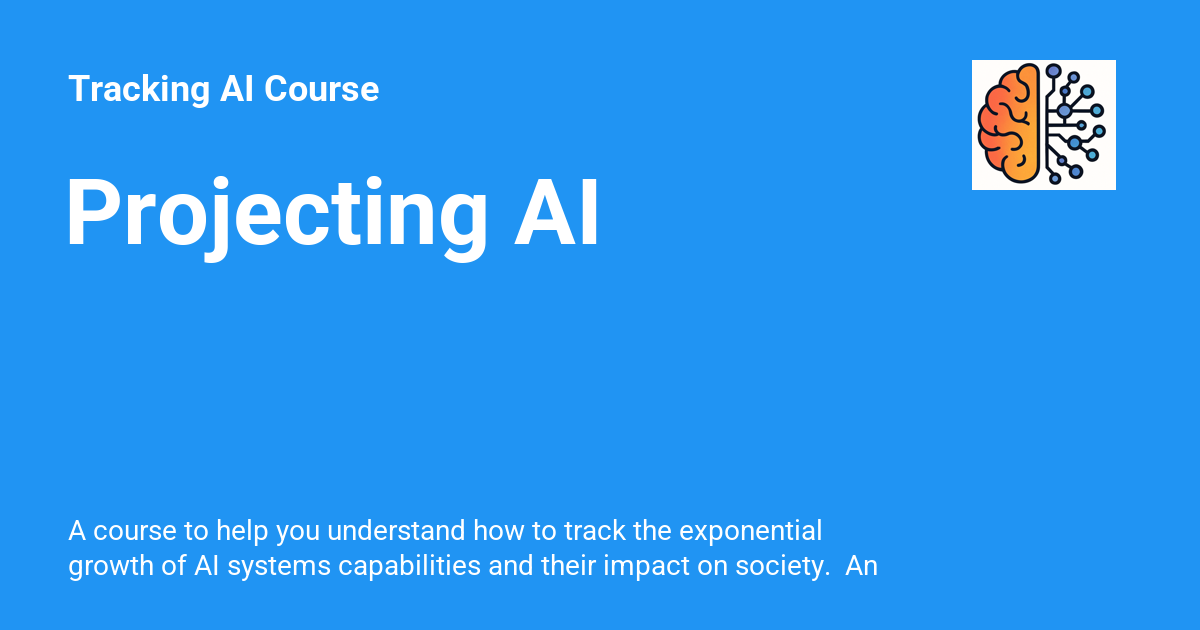
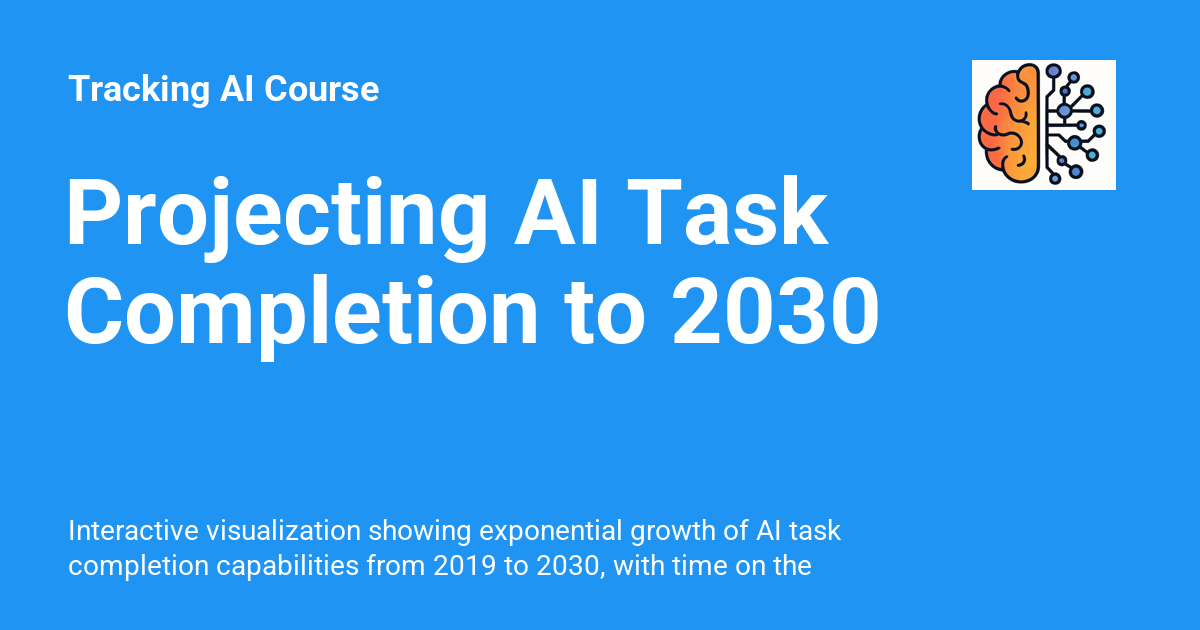
Deployed e076f68 with MkDocs version: 1.6.1

Changed region(s): [[0.0617, 0.8143, 0.74, 0.9349], [0.0308, 0.4222, 0.74, 0.573], [0.5242, 0.2714, 0.7092, 0.3921]]

diff --git a/sims/projecting-ai/index.html b/sims/projecting-ai/index.html
@@ -6,7 +6,7 @@
       <meta charset="utf-8">
       <meta name="viewport" content="width=device-width,initial-scale=1">
       
-        <meta name="description" content="A course to help you understand how to track the exponential growth of AI systems capabilities and their impact on society.  An analysis of the limitations of LLMs and the need for world models">
+        <meta name="description" content="Interactive visualization showing exponential growth of AI task completion capabilities from 2019 to 2030, with time on the horizontal axis and projected horizons based on 7-month doubling time">
       
       
         <meta name="author" content="Dan McCreary">
@@ -26,7 +26,7 @@
     
     
       
-        <title>Projecting AI - Tracking AI Course</title>
+        <title>Projecting AI Task Completion to 2030 - Tracking AI Course</title>
       
     
     
@@ -73,11 +73,11 @@
       
         <meta  property="og:type"  content="website" >
       
-        <meta  property="og:title"  content="Projecting AI - Tracking AI Course" >
+        <meta  property="og:title"  content="Projecting AI Task Completion to 2030 - Tracking AI Course" >
       
-        <meta  property="og:description"  content="A course to help you understand how to track the exponential growth of AI systems capabilities and their impact on society.  An analysis of the limitations of LLMs and the need for world models" >
+        <meta  property="og:description"  content="Interactive visualization showing exponential growth of AI task completion capabilities from 2019 to 2030, with time on the horizontal axis and projected horizons based on 7-month doubling time" >
       
-        <meta  property="og:image"  content="https://dmccreary.github.io/tracking-ai-course/assets/images/social/sims/projecting-ai/index.png" >
+        <meta property="og:image" content="https://dmccreary.github.io/tracking-ai-course/sims/projecting-ai/projecting-ai.png">
       
         <meta  property="og:image:type"  content="image/png" >
       
@@ -89,11 +89,11 @@
       
         <meta  name="twitter:card"  content="summary_large_image" >
       
-        <meta  name="twitter:title"  content="Projecting AI - Tracking AI Course" >
+        <meta  name="twitter:title"  content="Projecting AI Task Completion to 2030 - Tracking AI Course" >
       
-        <meta  name="twitter:description"  content="A course to help you understand how to track the exponential growth of AI systems capabilities and their impact on society.  An analysis of the limitations of LLMs and the need for world models" >
+        <meta  name="twitter:description"  content="Interactive visualization showing exponential growth of AI task completion capabilities from 2019 to 2030, with time on the horizontal axis and projected horizons based on 7-month doubling time" >
       
-        <meta  name="twitter:image"  content="https://dmccreary.github.io/tracking-ai-course/assets/images/social/sims/projecting-ai/index.png" >
+        <meta name="twitter:image" content="https://dmccreary.github.io/tracking-ai-course/sims/projecting-ai/projecting-ai.png">
       
     
     
@@ -149,7 +149,7 @@
         <div class="md-header__topic" data-md-component="header-topic">
           <span class="md-ellipsis">
             
-              Projecting AI
+              Projecting AI Task Completion to 2030
             
           </span>
         </div>

diff --git a/sims/projecting-ai/main.html b/sims/projecting-ai/main.html
@@ -4,6 +4,23 @@
     <meta charset="UTF-8">
     <meta name="viewport" content="width=device-width, initial-scale=1.0">
     <title>Projecting AI Task Completion to 2030</title>
+    <meta name="description" content="Interactive visualization showing exponential growth of AI task completion capabilities from 2019 to 2030, with time on the horizontal axis and projected horizons based on 7-month doubling time">
+    <meta name="author" content="Dan McCreary">
+
+    <!-- Open Graph / Facebook -->
+    <meta property="og:type" content="website">
+    <meta property="og:url" content="https://dmccreary.github.io/tracking-ai-course/sims/projecting-ai/main.html">
+    <meta property="og:title" content="Projecting AI Task Completion to 2030">
+    <meta property="og:description" content="Interactive visualization showing exponential growth of AI task completion capabilities from 2019 to 2030, with time on the horizontal axis and projected horizons based on 7-month doubling time">
+    <meta property="og:image" content="https://dmccreary.github.io/tracking-ai-course/sims/projecting-ai/projecting-ai.png">
+
+    <!-- Twitter -->
+    <meta property="twitter:card" content="summary_large_image">
+    <meta property="twitter:url" content="https://dmccreary.github.io/tracking-ai-course/sims/projecting-ai/main.html">
+    <meta property="twitter:title" content="Projecting AI Task Completion to 2030">
+    <meta property="twitter:description" content="Interactive visualization showing exponential growth of AI task completion capabilities from 2019 to 2030, with time on the horizontal axis and projected horizons based on 7-month doubling time">
+    <meta property="twitter:image" content="https://dmccreary.github.io/tracking-ai-course/sims/projecting-ai/projecting-ai.png">
+
     <link rel="stylesheet" href="style.css">
     <script src="https://cdn.jsdelivr.net/npm/chart.js@4.4.0/dist/chart.umd.min.js"></script>
     <script src="https://cdn.jsdelivr.net/npm/chartjs-adapter-date-fns@3.0.0/dist/chartjs-adapter-date-fns.bundle.min.js"></script>
